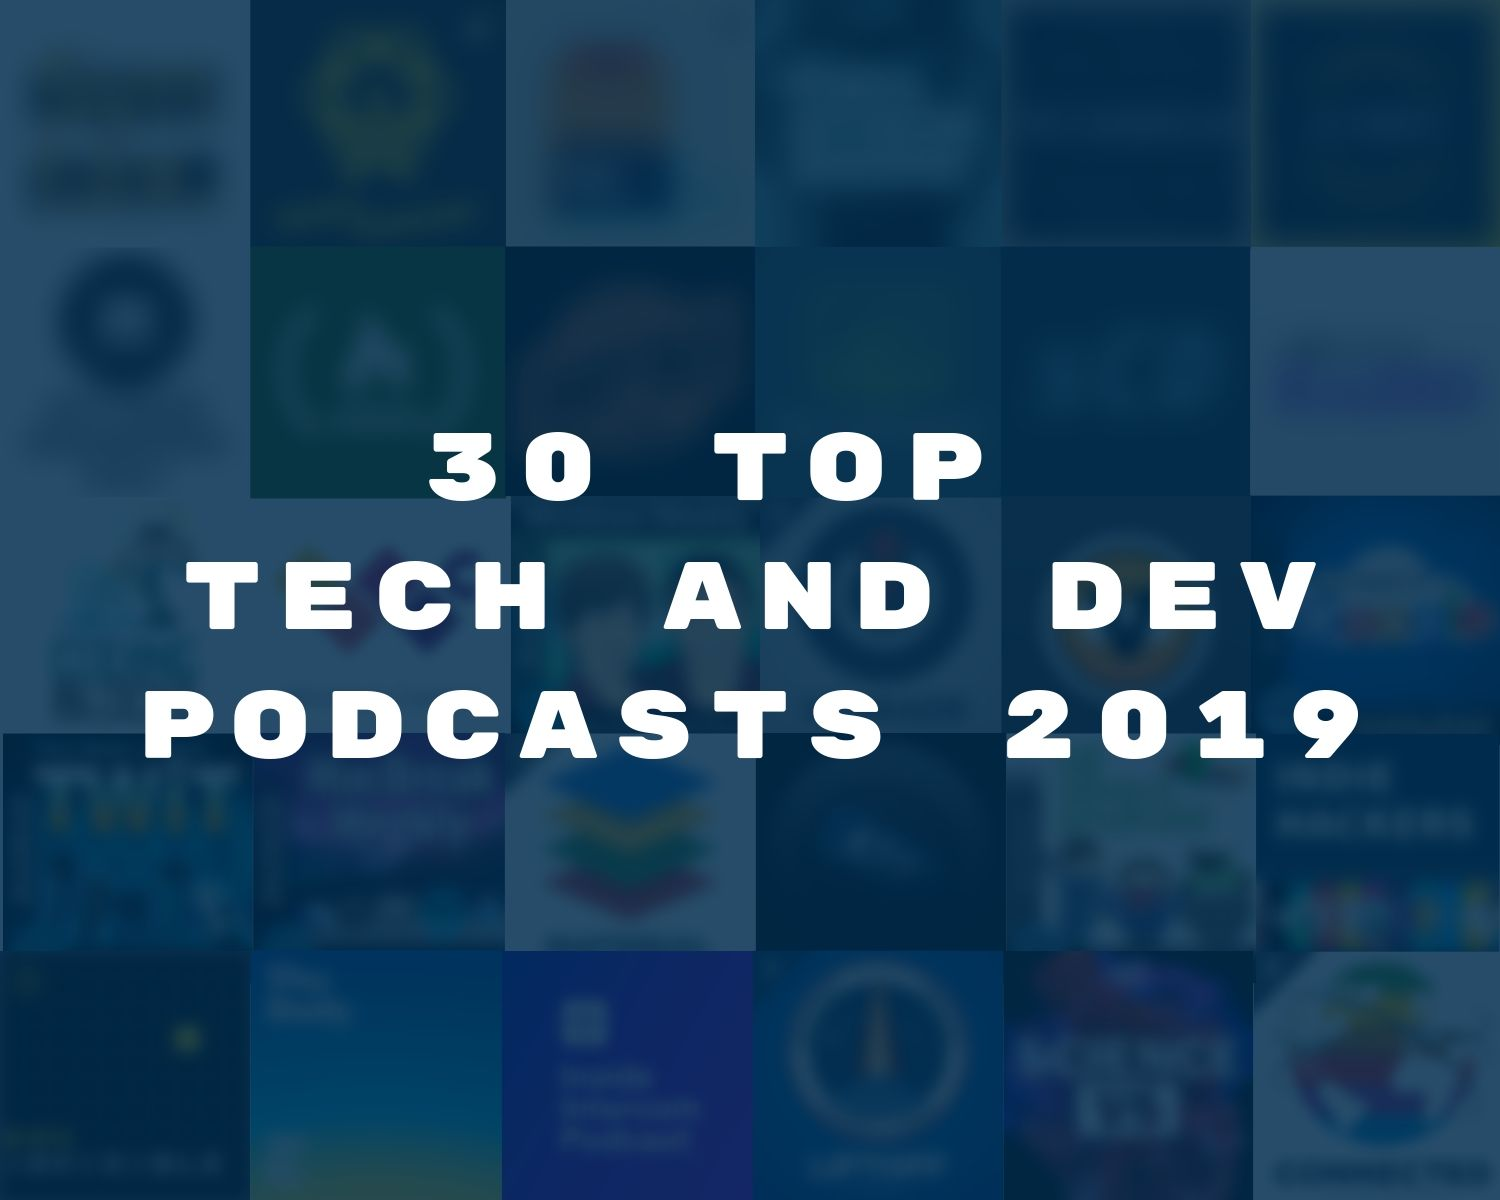
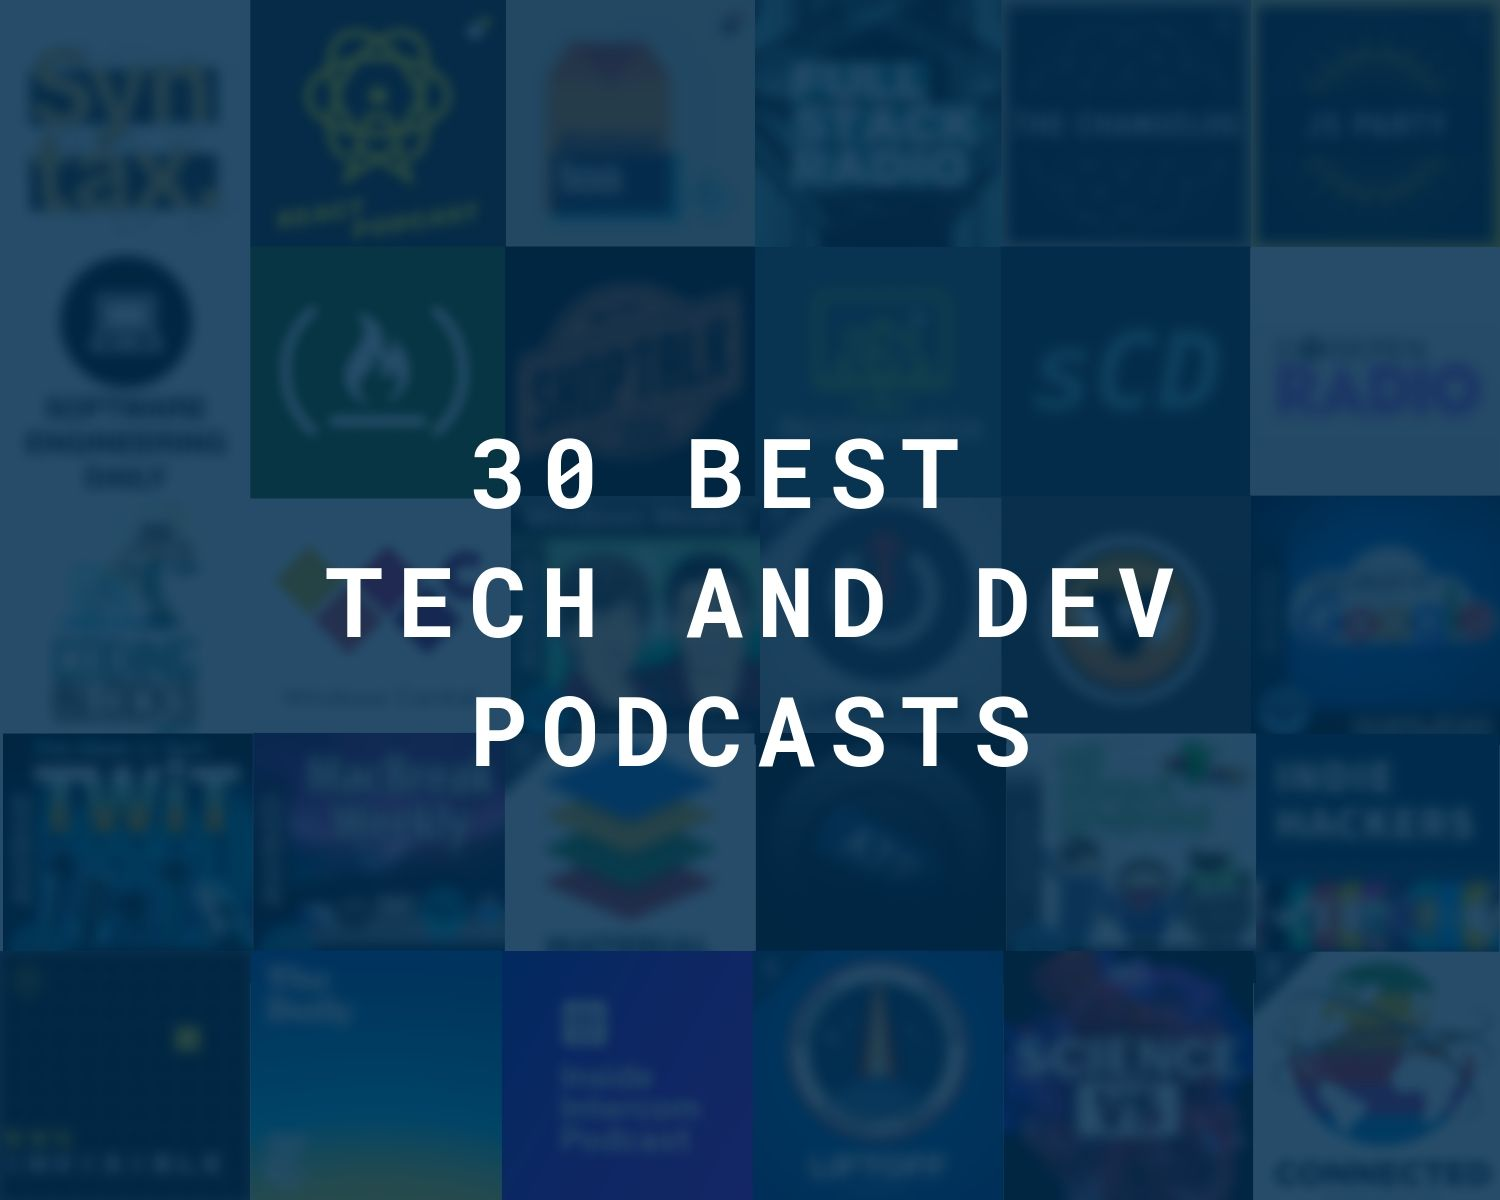
minor updates + new draft

Changed region(s): [[0.092, 0.4625, 0.92, 0.6475], [0.46, 0.3392, 0.6747, 0.4317], [0.276, 0.3392, 0.3987, 0.4317]]

diff --git a/src/content/blog/tech-podcasts-in-2019.md b/src/content/blog/tech-podcasts-in-2019.md
@@ -1,6 +1,6 @@
 ---
-title: 30 Top Tech and Dev Podcasts in 2019
-date: 2019-06-10T10:53:00
+title: 30 Best Tech and Dev Podcasts
+date: 2019-06-10T11:53:00
 tags: ['podcasting', 'web development']
 lang: English
 type: "text"
@@ -266,7 +266,7 @@ If you're looking for some friendly venom from people covering Microsoft profess
 
 [![podcast cover](30-top-tech-podcasts-in-2019/twoc9.jpg)](https://channel9.msdn.com/shows/This+Week+On+Channel+9/)
 
-This is a bit _meta_. My colleague Christina Warren basically sums up all things Channel 9, Microsoft's outgoing stream of news, feature update talks, tech discussions, blog posts and so on. I also recommend [Channel 9](https://channel9.msdn.com/) in it's entirety, but be ready, it's a lot of great content. 
+This is a bit _meta_. My colleague Christina Warren basically sums up all things Channel 9, Microsoft's outgoing stream of news, feature update talks, tech discussions, blog posts and so on. I also recommend [Channel 9](https://channel9.msdn.com/) in its entirety, but be ready, it's a lot of great content. 
 
 <small>TWiC9 [iTunes](https://itunes.apple.com/gb/podcast/this-week-on-channel-9-mp4-channel-9/id360667463) | TWiC9 [RSS](https://channel9.msdn.com/Shows/This+Week+On+Channel+9/feed/mp3)</small>
 

diff --git a/src/content/blog/broken-leg-chronicles.md b/src/content/blog/broken-leg-chronicles.md
@@ -1,0 +1,13 @@
+---
+title: Broken Leg Chronicles
+date: 2019-06-10T10:53:00
+tags: ['health']
+lang: English
+type: "text"
+excerpt: "Broken leg chronicles"
+author: Artem Rosnovsky
+draft: true
+image: broken-leg-chronicles/cover.png
+---
+
+Stuff
